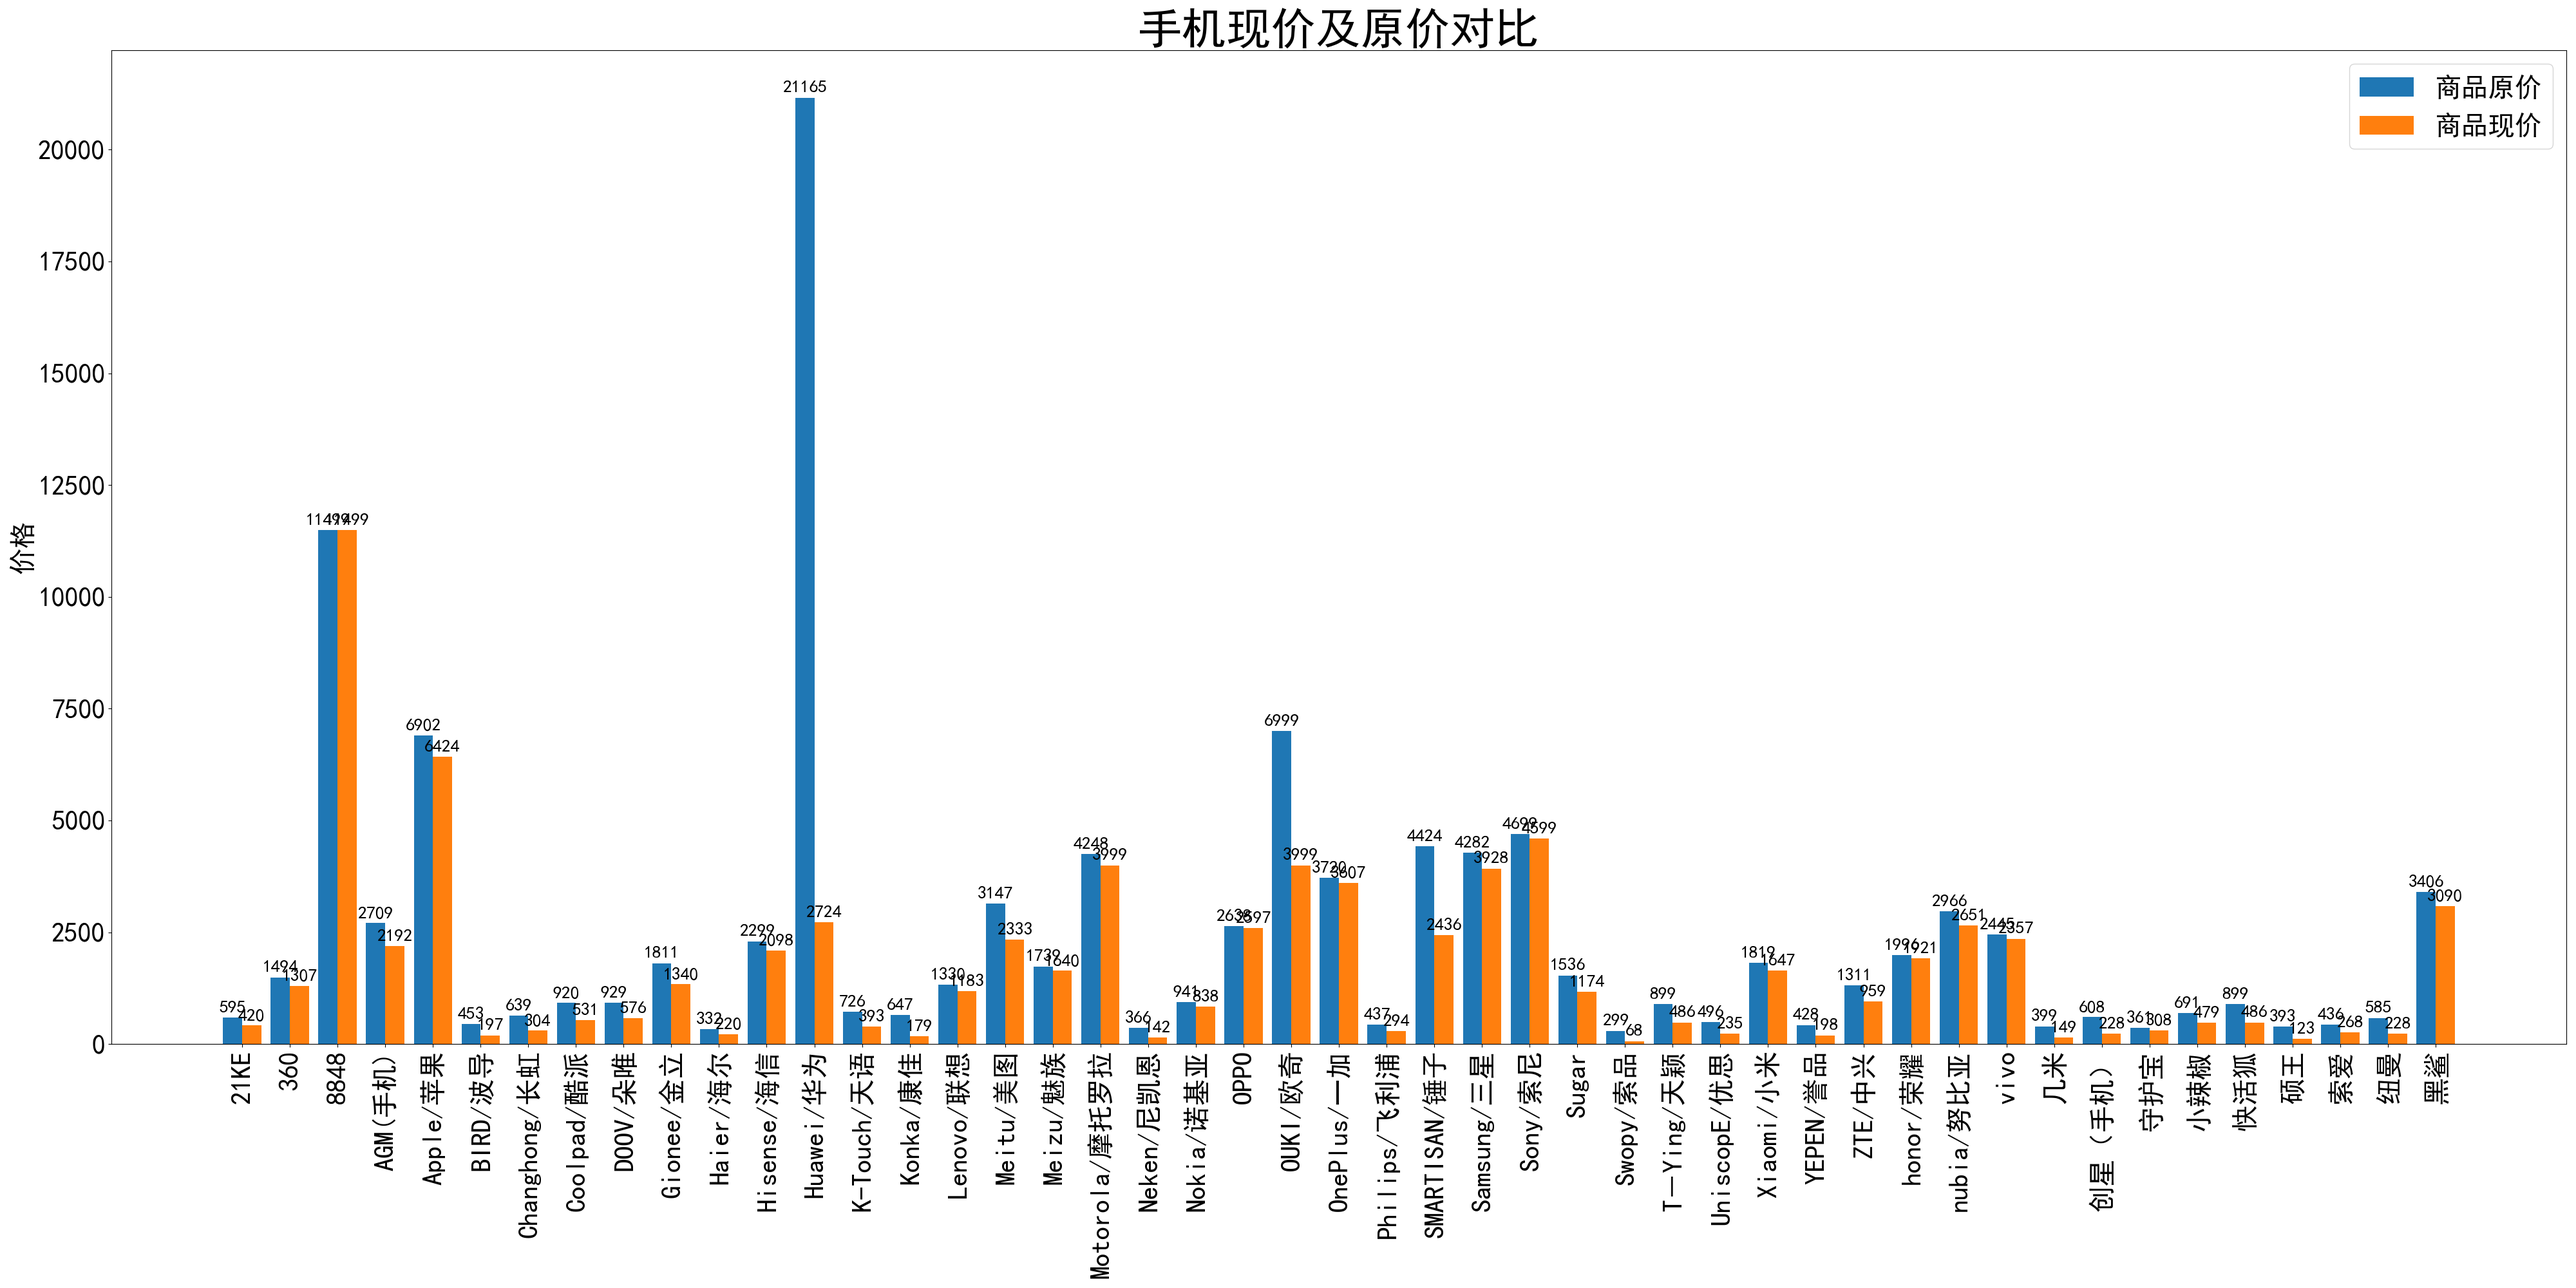
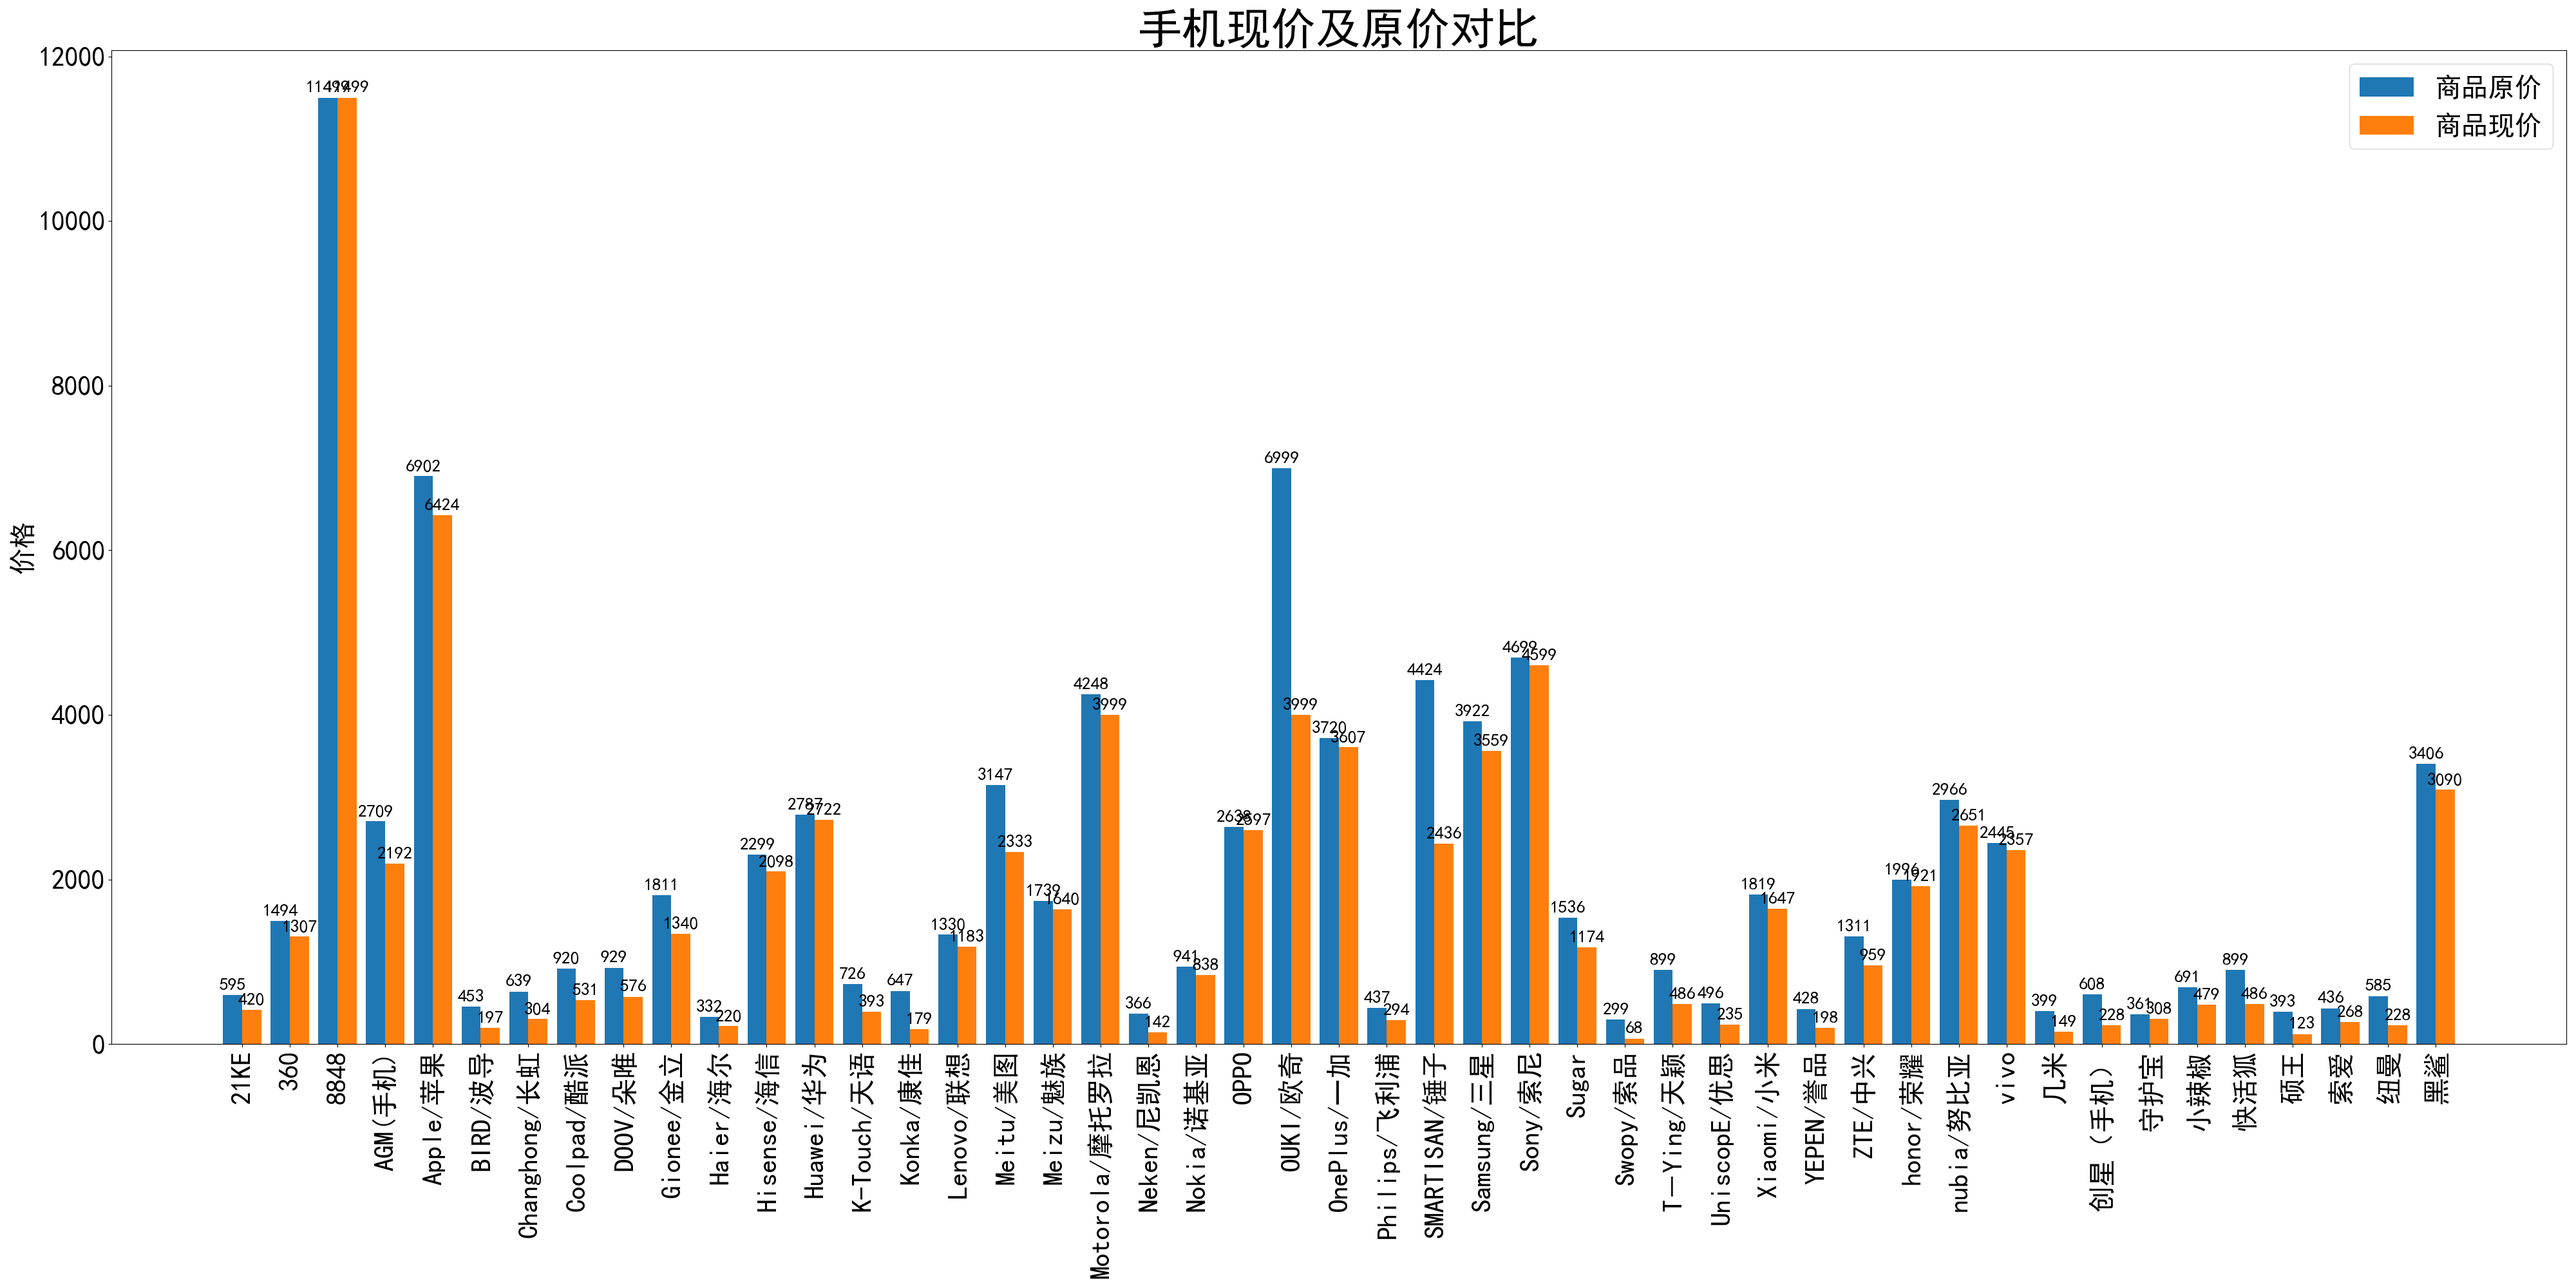
涉及原价的补充了异常价格drop

diff --git a/data_analyzing.py b/data_analyzing.py
@@ -10,7 +10,8 @@ plt.rcParams['axes.unicode_minus'] = False    # 解决中文显示问题
 plt.figure(figsize=(10,5),dpi=200)
 
 #发现手机原价数据有异常，进行清洗
-df1=df.drop(df[df['商品原价']>15000].index)
+df1=df[df['评分']>4.5]
+df1=df1.drop(df1[df1['商品原价']>15000].index)
 
 x=df1['价格等级']
 # y = df1.groupby('价格等级').count().reset_index()
@@ -28,7 +29,7 @@ plt.show()
 #-----------商品现价&原价对比------------
 #先筛选评分 >4.5的具有分析意义的手机商品
 df1=df[df['评分']>4.5]
-
+df1=df1.drop(df1[df1['商品原价']>15000].index)
 price1=df1.groupby('品牌')['商品原价'].mean().reset_index()
 labels=price1['品牌']
 
